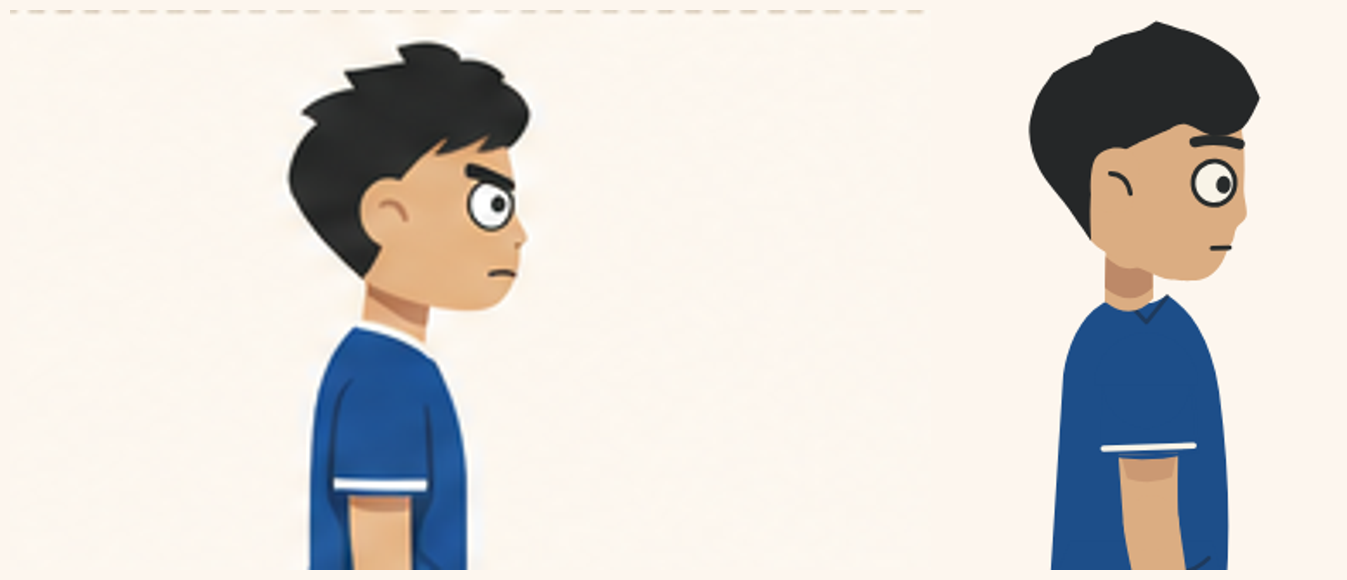
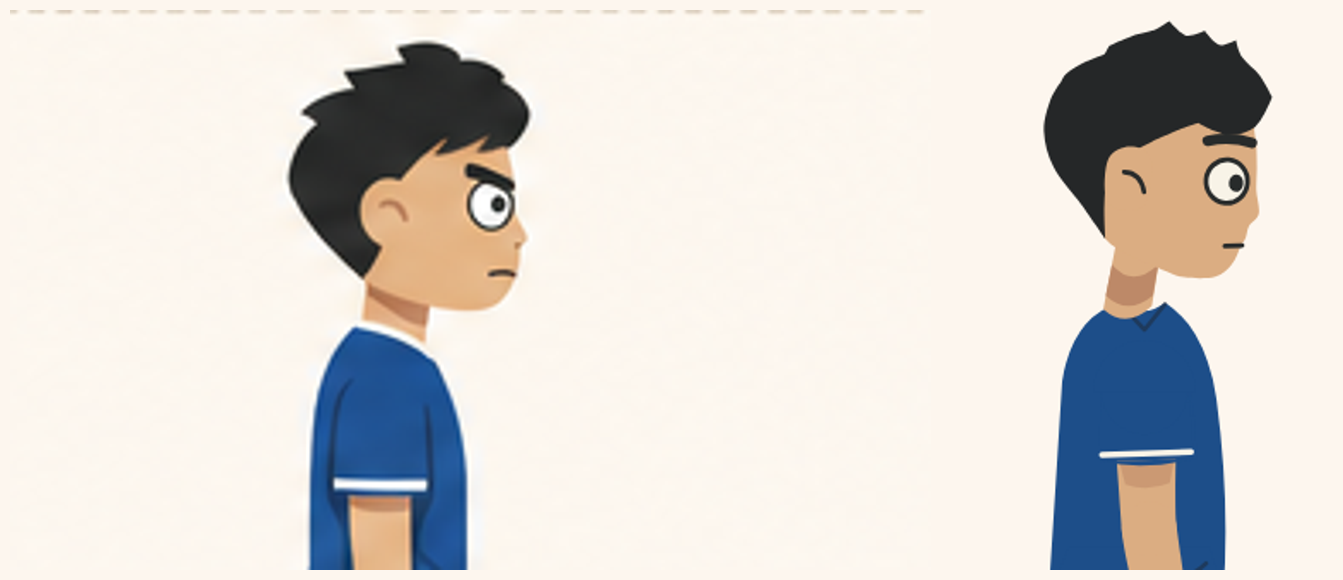
Hồ sơ 02: cổ Tùng góc nghiêng chếch ra trước
Nghiêng cổ ~10° quanh chân cổ, nâng và đưa đầu theo cho khớp ảnh mẫu.
Bảng nhân vật gốc trùng từng điểm ảnh; typecheck, test rig, vật lý, 2.5D qua.

Claude-Session: https://claude.ai/code/session_01SK73tBnSQF4kxa4AZiXrY1

diff --git a/episodes/hem-co-chuyen/ho-so-02-nguoi-lam-thay/assets/nhan-vat.tsx b/episodes/hem-co-chuyen/ho-so-02-nguoi-lam-thay/assets/nhan-vat.tsx
@@ -1080,9 +1080,12 @@ const TungProfileHead: React.FC<{ mood: 'annoyed' | 'calm'; clip: string; talk?:
   const mouth = drop > 0 ? undefined : ang ? 'M 47 131.6 Q 42.5 130.6 38 133' : 'M 47 131.6 Q 42.5 132 38 132.6';
   return (
     <g {...headFrame(x, y, scale)}>
-      <path d="M -23 126 L -24 184 Q -8 196 4 182 L 3 126 Z" fill={PALETTE.skin} {...o(PALETTE.skin)} />
-      <path d="M -23.5 158 Q -9 172 3.5 158 L 3.5 176 Q -9 188 -24 176 Z" fill={PALETTE.skinShadow} stroke="none" />
-      <g transform="translate(-4 3) rotate(5 -8 150) scale(1.1)">
+      {/* cổ chếch ra trước: nghiêng quanh chân cổ (y = 184), đỉnh cổ lệch về phía mặt ~10 đơn vị */}
+      <g transform="translate(0 184) skewX(-10) translate(0 -184)">
+        <path d="M -23 126 L -24 184 Q -8 196 4 182 L 3 126 Z" fill={PALETTE.skin} {...o(PALETTE.skin)} />
+        <path d="M -23.5 158 Q -9 172 3.5 158 L 3.5 176 Q -9 188 -24 176 Z" fill={PALETTE.skinShadow} stroke="none" />
+      </g>
+      <g transform="translate(5 -3) rotate(5 -8 150) scale(1.1)">
       {drop > 0 && <path d={`M 48 130 L 38 ${131 + 0.4 * drop} L ${44 - 0.3 * drop} ${133 + drop} Z`} fill={PALETTE.mouthDark} stroke="none" />}
       <path d={tungSkinPath(drop)} fill={PALETTE.skin} {...o(PALETTE.skin)} />
       <path d={TUNG_SIDE.hair} fill={PALETTE.tung.hair} {...o(PALETTE.tung.hair)} visibility="visible" transform={hairSway(sway)} />

diff --git a/episodes/hem-co-chuyen/ho-so-02-nguoi-lam-thay/assets/thiet-ke/thu-2-5d/README.md b/episodes/hem-co-chuyen/ho-so-02-nguoi-lam-thay/assets/thiet-ke/thu-2-5d/README.md
@@ -54,7 +54,7 @@ import { Nam25D } from './thiet-ke/thu-2-5d/nam-2-5d';
 
 - **Người Kia** (`NguoiKia25D`): dùng chung rig, đầu, bảng màu và dáng mới với Nam (khác nốt ruồi bên phải, nét mặt mặc định điềm tĩnh, áo rêu) — chỉ đổi danh tính nên không có đường đi riêng nào cần kiểm thêm.
 - **Tùng** (`Tung25D`): đầu và đồ riêng nên khai bảng màu nhận diện khối riêng (`Pal25`: áo + tất cùng navy, viền cổ/số 7/sọc/giày cùng màu kem, quần đùi, tóc). Dáng theo ảnh tham chiếu, đo bằng cách ghép cùng chiều cao như Nam: chân ngắn ~6%, bàn tay 1,22, vai ×0,96, tay dày hơn chút (`TUNG_DANG`). Rig gốc chỉ thêm tham số `hair` cho `TungHead`/`TungSoccer`, xuất `TUNG_OUTFIT`; bảng nhân vật (có Tùng) trước/sau trùng từng điểm ảnh.
-- **Đầu nghiêng của Tùng dựng lại theo ảnh mẫu** ([so sánh](tung-nghieng-so-sanh.png): trái ảnh mẫu, phải bản dựng). Bản đầu tiên dùng chung khuôn đầu nghiêng với Nam nên tròn, hàm phình, tóc là một mảng vòm rời ở trên, gáy hở da. Đã đo điểm mốc trên ảnh mẫu (đường tóc, mũi tóc trán, chân tóc nhọn sau tai, tai, mắt, mũi–môi–cằm, cổ), quy ra đơn vị đầu, và dựng `TungProfileHead` trong `nhan-vat.tsx`: sọ thon, hơi cúi (cằm lùi so với trán), hàm nhỏ cằm tròn, cổ nhỏ, **tóc ôm sát sọ xuống tận gáy** với lọn nhọn ở đỉnh và mũi tóc trên trán, tai chữ C ở mép tóc; đầu to hơn ~10% và nghiêng ~5°, cổ ngắn lại. Chỉ Tùng đổi, góc nghiêng; đầu Nam/Người Kia và các góc khác của Tùng giữ nguyên (bảng nhân vật gốc trùng từng điểm ảnh). Miệng mở khi nói và tóc đung đưa vật lý vẫn hoạt động ở góc này. **Chưa làm:** đầu nghiêng của Nam và Người Kia vẫn tròn như cũ; góc 1/4 và sau lưng của Tùng chưa so với ảnh mẫu.
+- **Đầu nghiêng của Tùng dựng lại theo ảnh mẫu** ([so sánh](tung-nghieng-so-sanh.png): trái ảnh mẫu, phải bản dựng). Bản đầu tiên dùng chung khuôn đầu nghiêng với Nam nên tròn, hàm phình, tóc là một mảng vòm rời ở trên, gáy hở da. Đã đo điểm mốc trên ảnh mẫu (đường tóc, mũi tóc trán, chân tóc nhọn sau tai, tai, mắt, mũi–môi–cằm, cổ), quy ra đơn vị đầu, và dựng `TungProfileHead` trong `nhan-vat.tsx`: sọ thon, hơi cúi (cằm lùi so với trán), hàm nhỏ cằm tròn, cổ nhỏ, **tóc ôm sát sọ xuống tận gáy** với lọn nhọn ở đỉnh và mũi tóc trên trán, tai chữ C ở mép tóc; đầu to hơn ~10% và nghiêng ~5°, cổ ngắn và **chếch ra trước** (nghiêng ~10° quanh chân cổ, đầu đưa theo). Chỉ Tùng đổi, góc nghiêng; đầu Nam/Người Kia và các góc khác của Tùng giữ nguyên (bảng nhân vật gốc trùng từng điểm ảnh). Miệng mở khi nói và tóc đung đưa vật lý vẫn hoạt động ở góc này. **Chưa làm:** đầu nghiêng của Nam và Người Kia vẫn tròn như cũ; góc 1/4 và sau lưng của Tùng chưa so với ảnh mẫu.
 - **Lớp ánh sáng đã khái quát hoá:** `Volume25` nhận bảng màu `Pal25` (danh sách màu áo, quần, tóc) thay vì cứng theo Nam; đầu/mắt luôn bị loại khỏi khối áo/quần (mắt Tùng cùng màu kem với viền áo nên trước đó sẽ bị bóng áo phủ lên). Nam không đổi một điểm ảnh (so bảng `nam-2-5d.png`, `anh-sang.png`).
 - **Vật lý:** `NamVatLy` nhận `Body` (mặc định `Nam25D`, hoặc `NguoiKia25D`/`Tung25D`); `VatLyBoard` có tham số `who`. Mẫu: [vat-ly-tung-dung.png](vat-ly-tung-dung.png), [vat-ly-kia-giat.png](vat-ly-kia-giat.png).
 - **Kiểm tra:** [`kiem-tra-2-5d.cjs`](kiem-tra-2-5d.cjs) — 610 kiểm tra: 3 nhân vật × 5 góc × 6 kiểu sáng × tư thế (đứng, ngồi, cầm điện thoại, đi) dựng được, không NaN/undefined, đủ lớp và mask, `volume={false}` là 2D, Tùng chọn khối đúng màu.
